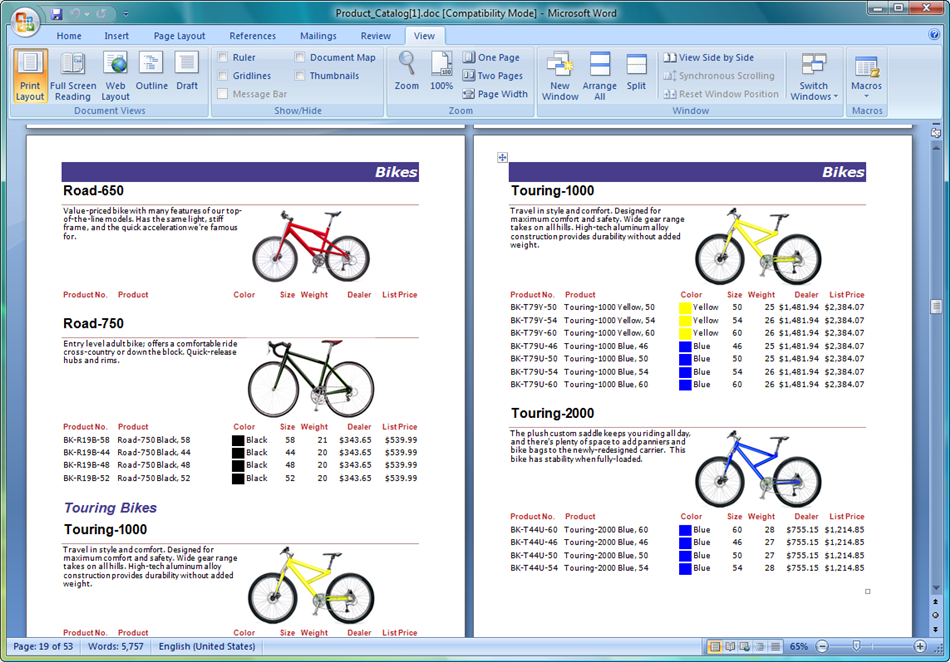
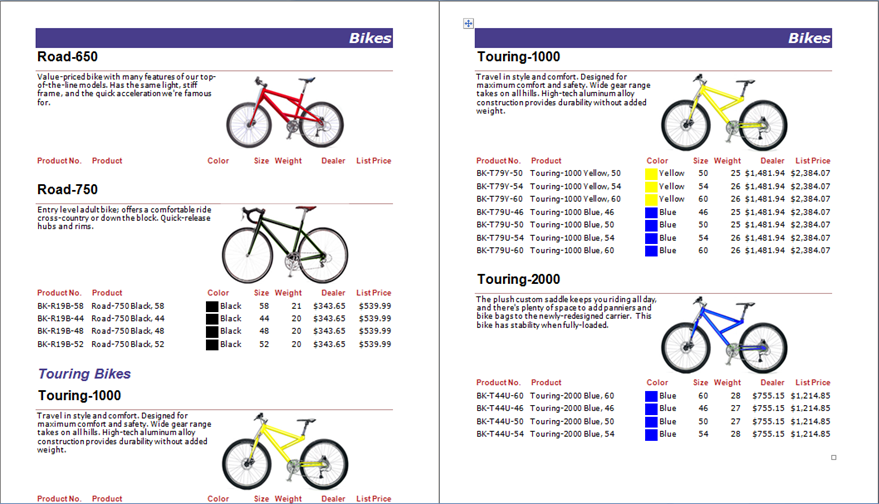
Updated old images on the "Sample Gallery" page.

diff --git a/reportingservices/getting-started/sample-gallery/_index.md b/reportingservices/getting-started/sample-gallery/_index.md
@@ -19,22 +19,22 @@ Most of the reports shown here come from the AdventureWorks database. AdventureW
 
 **Employee Sales Summary: DOC, charts, images, textboxes, tables.**
 
-![todo:image_alt_text](sample-gallery_2.png)
+<img src="sample-gallery_2.png" alt="sample-gallery_2" style="width:800px"/>
 
 **Product Catalog: DOC, title page, images, headers, footers, rectangles, lines, subreports.**
 
-![todo:image_alt_text](sample-gallery_3.png)
+<img src="sample-gallery_3.png" alt="sample-gallery_3" style="width:800px"/>
 
-![todo:image_alt_text](sample-gallery_4.png)
+<img src="sample-gallery_4.png" alt="sample-gallery_4" style="width:800px"/>
 
 **Product Line Sales: DOC, charts, subreports, images, lists.**
 
-![todo:image_alt_text](sample-gallery_5.png)
+<img src="sample-gallery_5.png" alt="sample-gallery_5" style="width:800px"/>
 
 **Sales Order Detail: WordML, tables, styles, rectangles, textboxes, images.**
 
-![todo:image_alt_text](sample-gallery_6.png)
+<img src="sample-gallery_6.png" alt="sample-gallery_6" style="width:800px"/>
 
 **Third Party Controls: OOXML, textboxes, Dundas Chart for Reporting Services in the report.**
 
-![todo:image_alt_text](sample-gallery_7.png)
+<img src="sample-gallery_7.png" alt="sample-gallery_7" style="width:800px"/>
